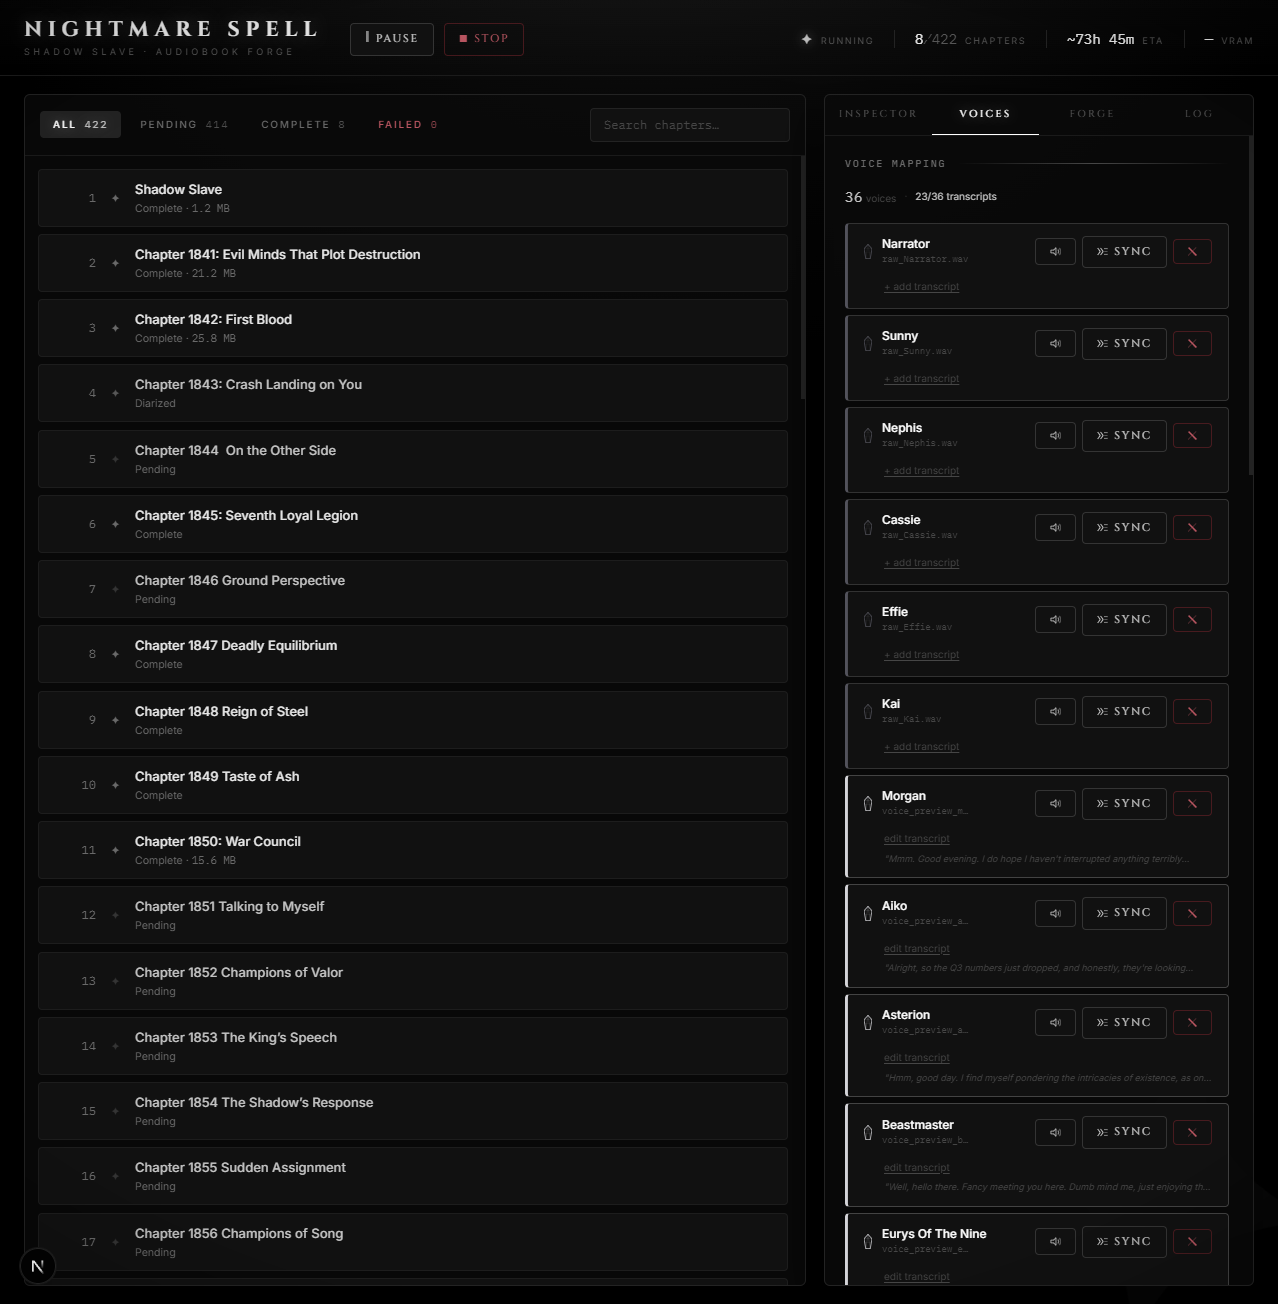
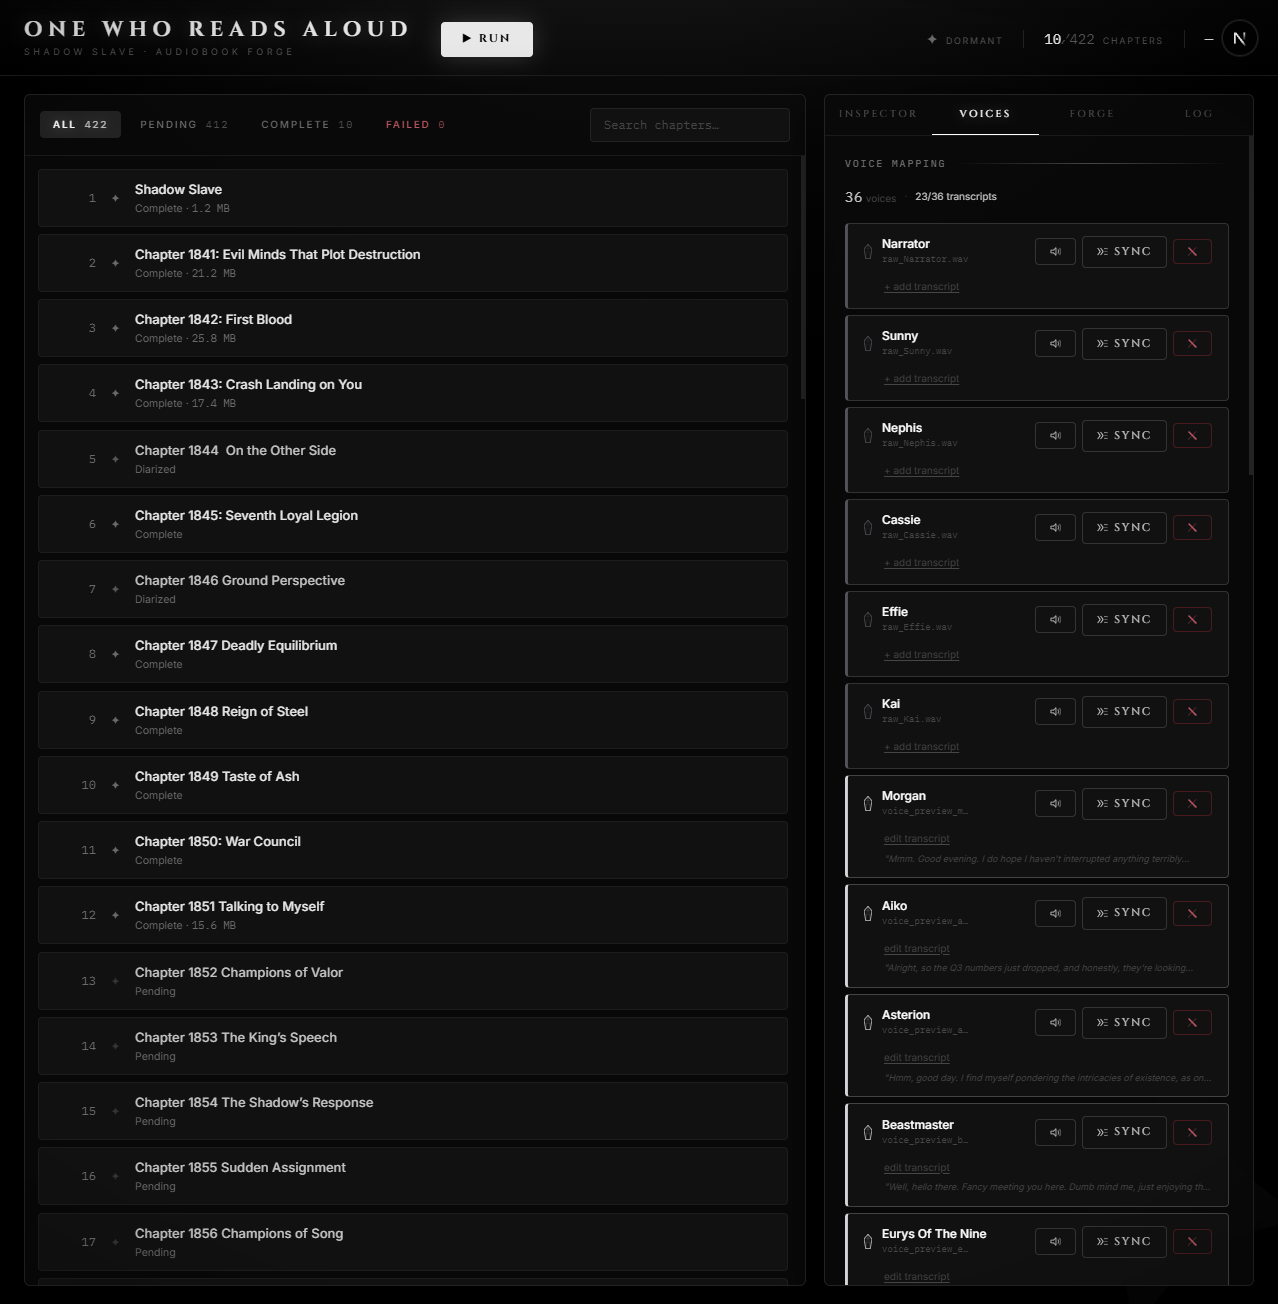
fix(ui): rebrand wordmark and tab title to One Who Reads Aloud; retake README screenshot

Changed region(s): [[0.0305, 0.0, 0.4272, 0.0613], [0.1221, 0.2761, 0.2746, 0.3067], [0.1221, 0.6748, 0.2441, 0.7055]]

diff --git a/ui/components/CommandStrip.tsx b/ui/components/CommandStrip.tsx
@@ -61,7 +61,7 @@ export default function CommandStrip({
       <div className="select-none">
         <h1 className="font-display font-bold text-[21px] leading-none tracking-[6px] text-ink-primary
                        animate-flicker [text-shadow:0_0_18px_rgba(255,255,255,0.22),0_0_60px_rgba(255,255,255,0.08)]">
-          NIGHTMARE SPELL
+          ONE WHO READS ALOUD
         </h1>
         <span className="block mt-1 text-[9px] tracking-[3.5px] uppercase text-spell-g5">
           Shadow Slave · Audiobook Forge

diff --git a/ui/app/layout.tsx b/ui/app/layout.tsx
@@ -24,8 +24,8 @@ const cinzel = Cinzel({
 })
 
 export const metadata: Metadata = {
-  title: 'Shadow Slave — Audiobook Pipeline',
-  description: 'Shadow Slave — multi-voice audiobook generation',
+  title: 'One Who Reads Aloud — Shadow Slave Audiobook',
+  description: 'Multi-voice audiobook generation for Shadow Slave',
 }
 
 export default function RootLayout({ children }: { children: React.ReactNode }) {
